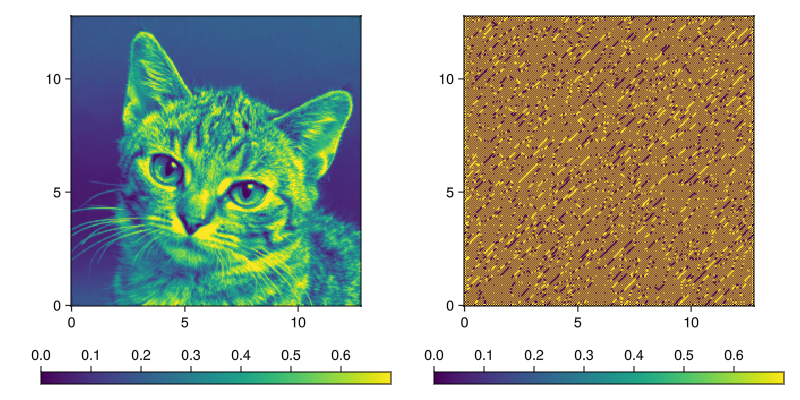
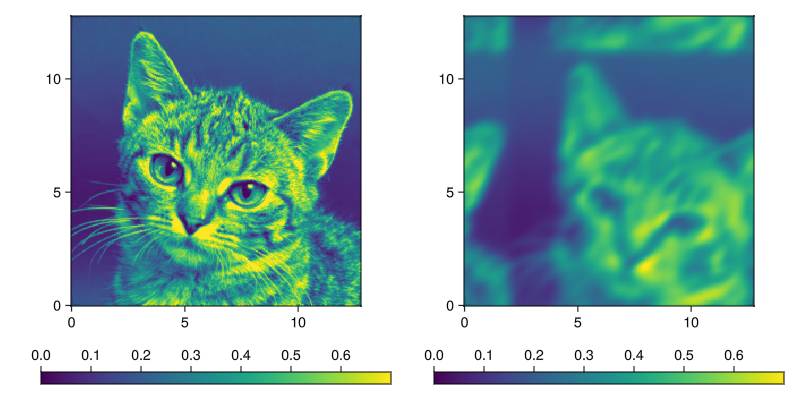
fix flying cat and 1d advection figures

Changed region(s): [[0.5625, 0.03, 0.9688, 0.78]]

diff --git a/docs/src/finite-difference-transport.md b/docs/src/finite-difference-transport.md
@@ -313,7 +313,7 @@ const BOX = CarboKitten.Box{Periodic{2}}(
 
 const INPUT = TestModel.Input(
     box = BOX,
-    time = TimeProperties(Δt=100u"yr", steps=50),
+    time = TimeProperties(Δt=50u"yr", steps=100),
     topography = zeros(typeof(1.0u"m"), BOX.grid_size),
     initial_state = load("data/cat256.pgm")'[:, end:-1:1] .|> Float64,
     wave_velocity = _ -> ((0.4u"m/yr", -0.3u"m/yr"), (0.0u"1/yr", 0.0u"1/yr")),

diff --git a/docs/src/active-layer-transport.md b/docs/src/active-layer-transport.md
@@ -468,7 +468,7 @@ module Script
     function main()
         CairoMakie.activate!()
         input = transport_test_input(
-            initial_topography = (x, y)  -> -30.0u"m",
+            initial_topography = (x, y)  -> -31.0u"m",
             initial_sediment = gaussian_initial_sediment,
             disintegration_rate = 50000.0u"m/Myr",
             wave_velocity = v_const(-5u"km/Myr")
